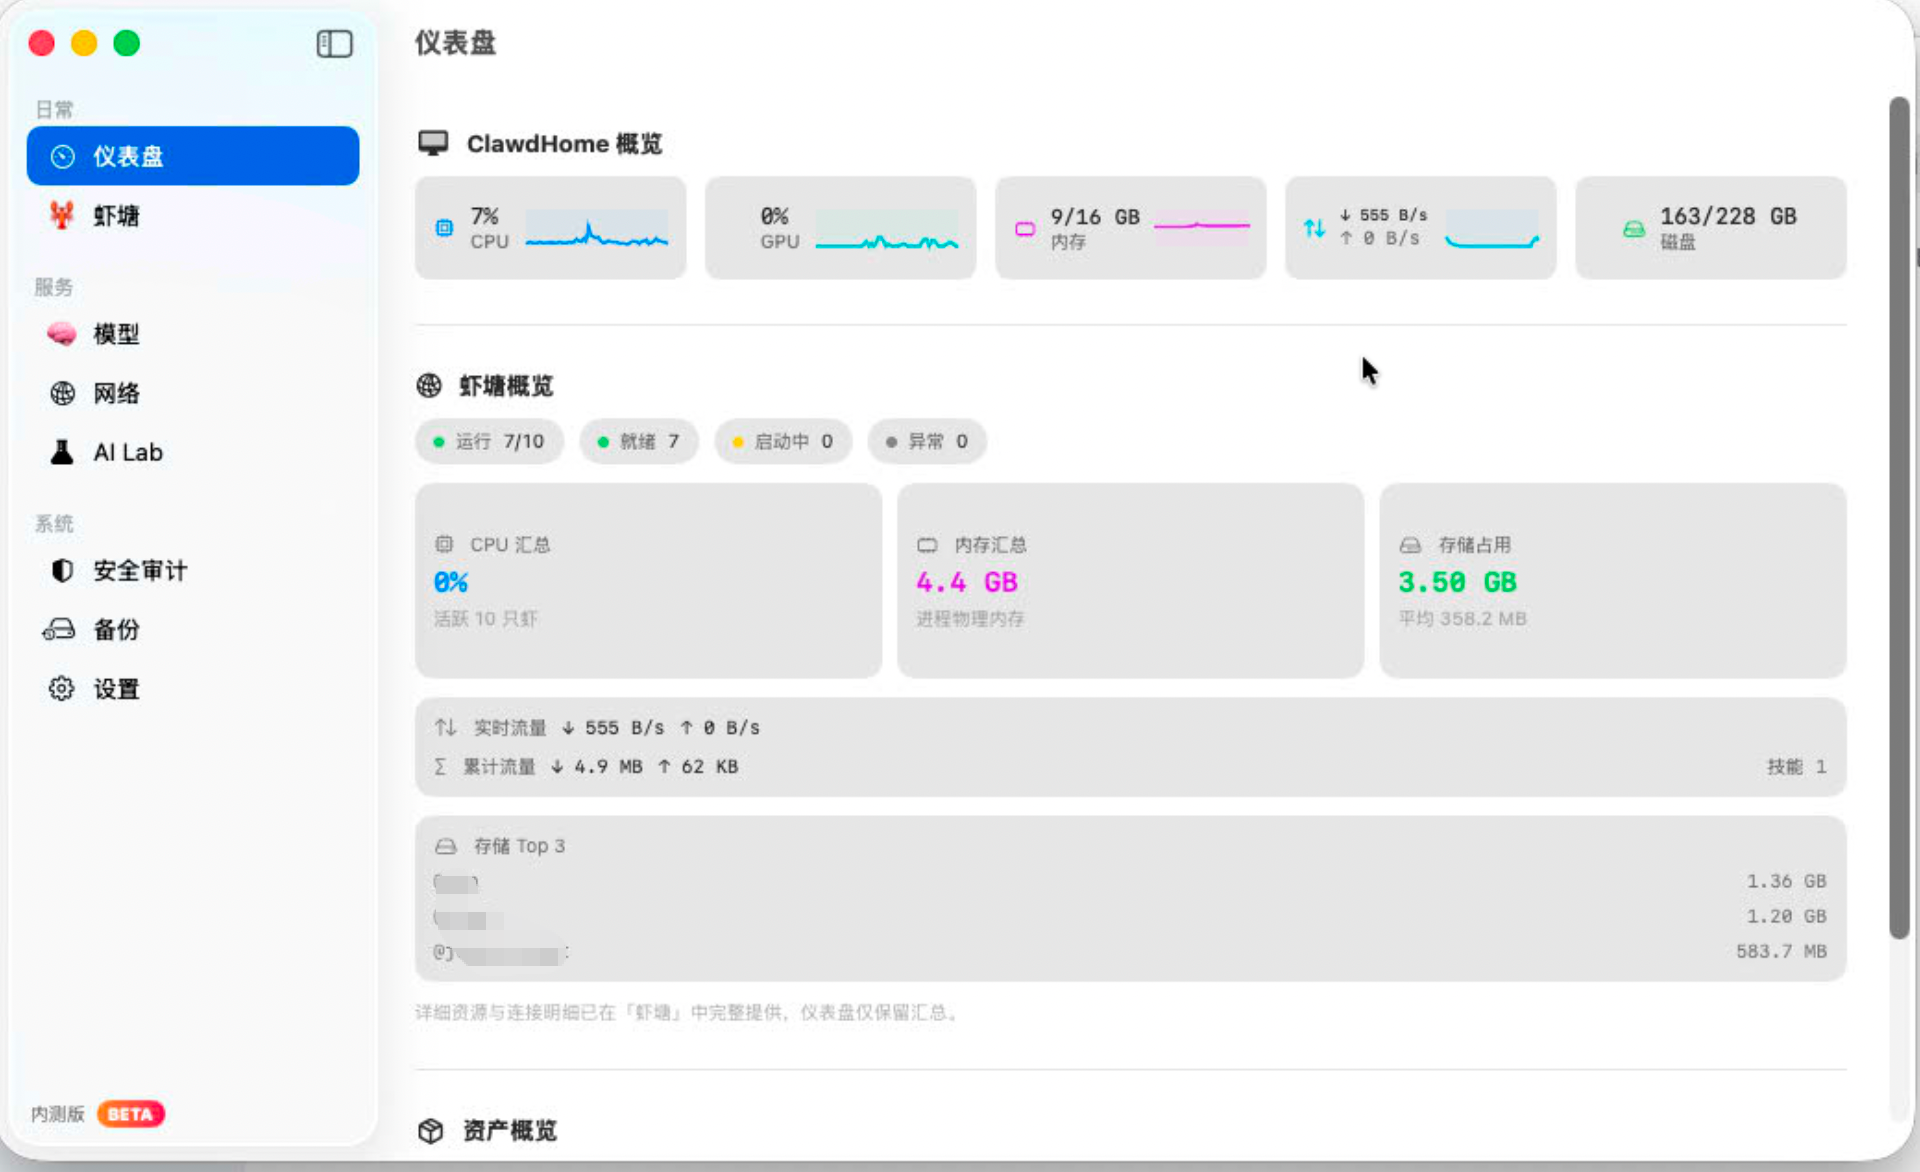
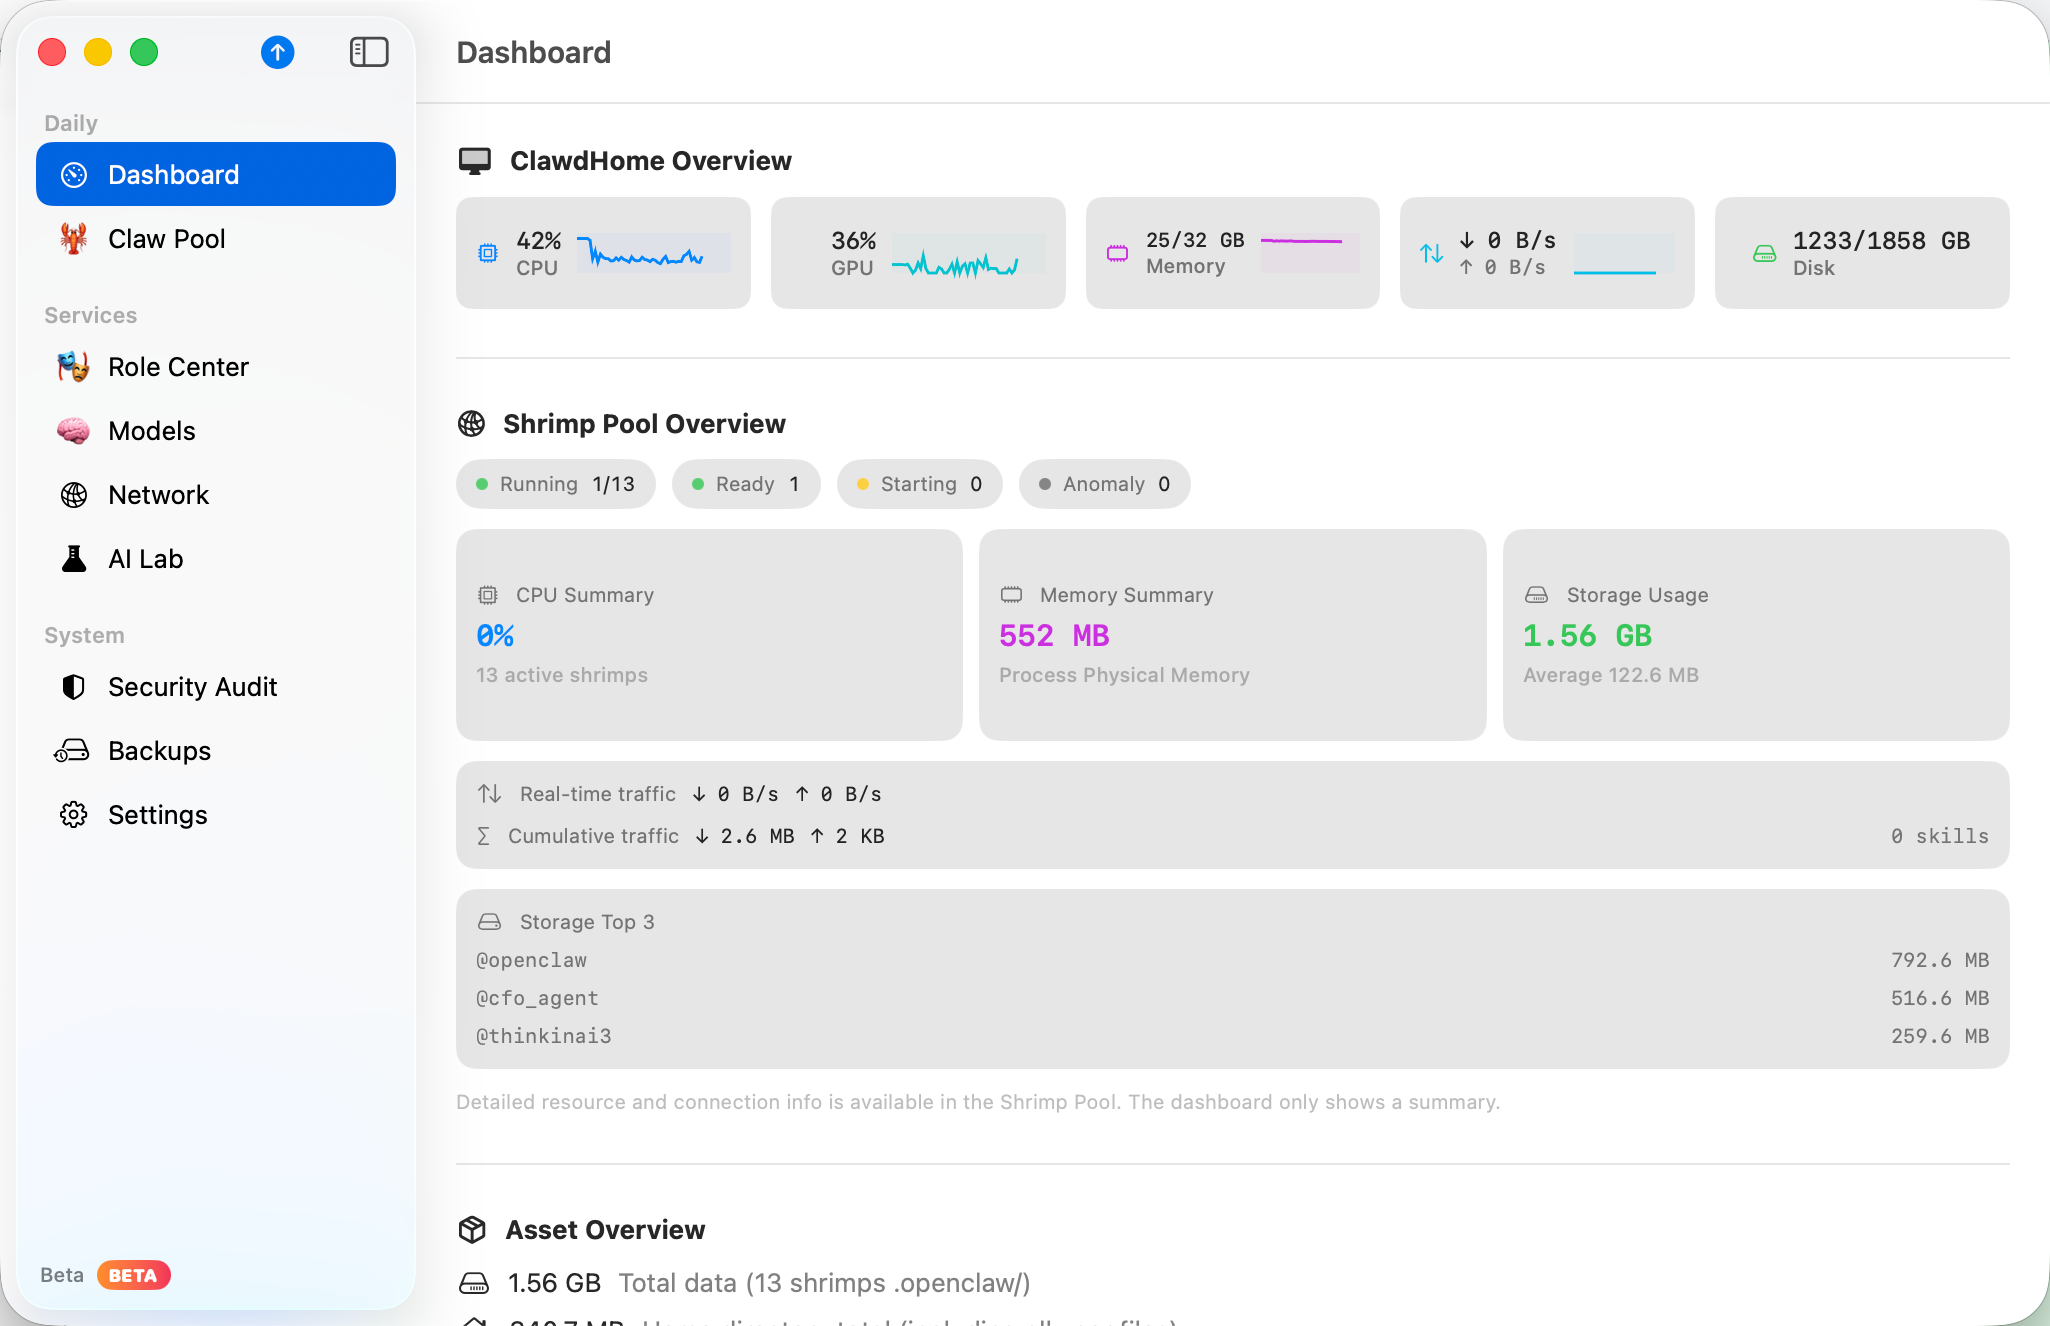
docs(readme): refresh screenshots for role center and claw pool

diff --git a/README.md b/README.md
@@ -22,8 +22,8 @@ ClawdHome is designed for makers and operators who want to run multiple OpenClaw
     <td><img src="docs/assets/readme/github-claw-pool.png" alt="Claw Pool" /></td>
   </tr>
   <tr>
-    <td><img src="docs/assets/readme/github-filemanager.png" alt="File Manager" /></td>
-    <td><img src="docs/assets/readme/github-process.png" alt="Process" /></td>
+      <td><img src="docs/assets/readme/github-role-center.png" alt="Role Center" /></td>
+      <td><img src="docs/assets/readme/github-role-awaken.png" alt="Role Awaken" /></td>
   </tr>
 </table>
 